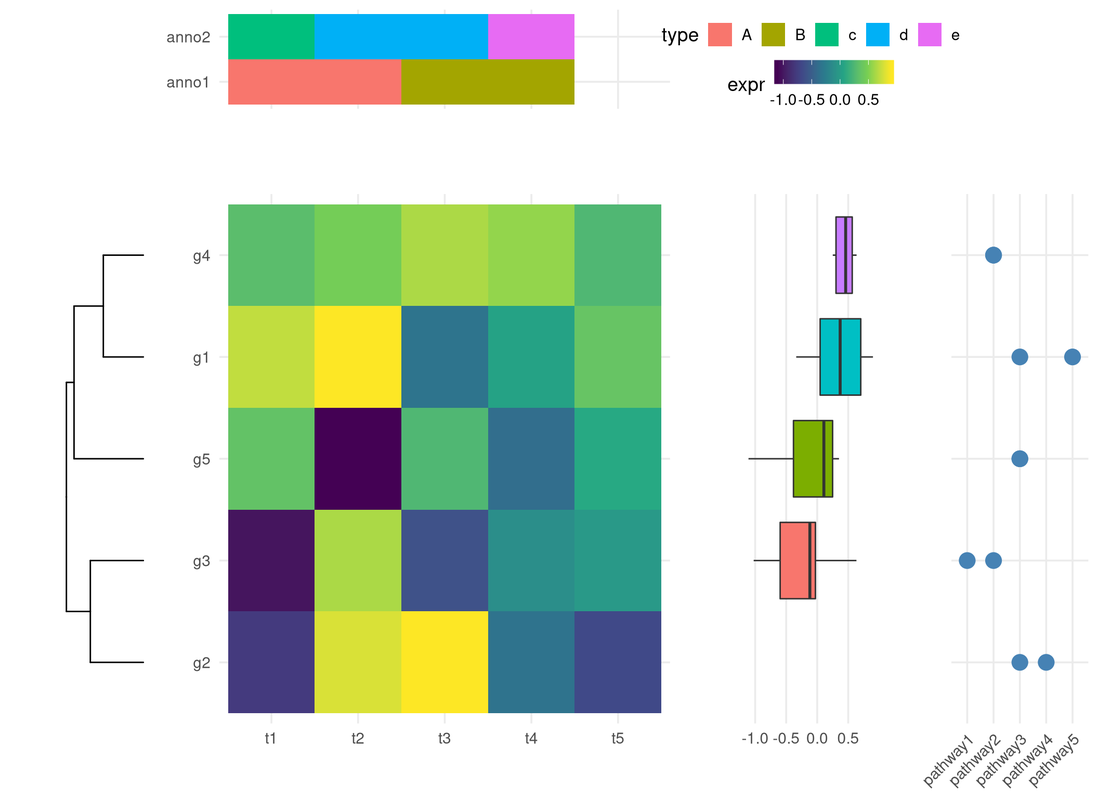
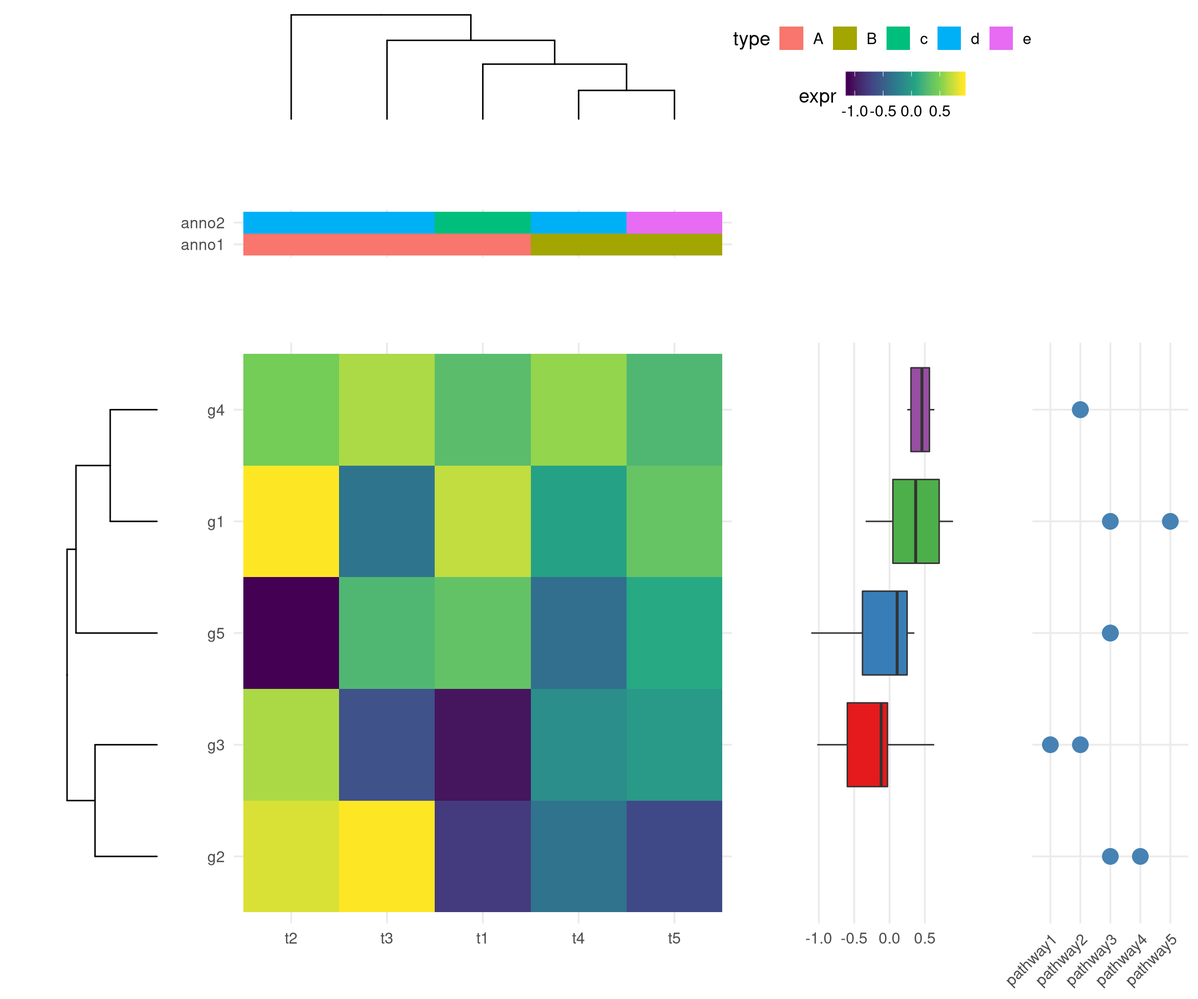
column hc

diff --git a/docs/chapter10.html b/docs/chapter10.html
@@ -581,64 +581,71 @@ Figure 10.6: <strong>Setting axis limits for aligning plots.</strong> Composite 
 <span id="cb236-8"><a href="chapter10.html#cb236-8"></a><span class="kw">rownames</span>(d) &lt;-<span class="st"> </span><span class="kw">paste0</span>(<span class="st">&#39;g&#39;</span>, <span class="dv">1</span><span class="op">:</span><span class="dv">5</span>)</span>
 <span id="cb236-9"><a href="chapter10.html#cb236-9"></a><span class="kw">colnames</span>(d) &lt;-<span class="st"> </span><span class="kw">paste0</span>(<span class="st">&#39;t&#39;</span>, <span class="dv">1</span><span class="op">:</span><span class="dv">5</span>)</span>
 <span id="cb236-10"><a href="chapter10.html#cb236-10"></a>hc &lt;-<span class="st"> </span><span class="kw">hclust</span>(<span class="kw">dist</span>(d))</span>
-<span id="cb236-11"><a href="chapter10.html#cb236-11"></a>ph &lt;-<span class="st"> </span><span class="kw">ggtree</span>(hc)</span>
-<span id="cb236-12"><a href="chapter10.html#cb236-12"></a></span>
-<span id="cb236-13"><a href="chapter10.html#cb236-13"></a>d &lt;-<span class="st"> </span><span class="kw">data.frame</span>(d)</span>
-<span id="cb236-14"><a href="chapter10.html#cb236-14"></a>d<span class="op">$</span>gene &lt;-<span class="st"> </span><span class="kw">rownames</span>(d)</span>
-<span id="cb236-15"><a href="chapter10.html#cb236-15"></a>lv &lt;-<span class="st"> </span>d<span class="op">$</span>gene[hc<span class="op">$</span>order]</span>
-<span id="cb236-16"><a href="chapter10.html#cb236-16"></a>dd &lt;-<span class="st"> </span><span class="kw">gather</span>(d, <span class="dv">1</span><span class="op">:</span><span class="dv">5</span>, <span class="dt">key=</span><span class="st">&quot;condition&quot;</span>, <span class="dt">value=</span><span class="st">&#39;expr&#39;</span>)</span>
-<span id="cb236-17"><a href="chapter10.html#cb236-17"></a>dd<span class="op">$</span>gene &lt;-<span class="st"> </span><span class="kw">factor</span>(dd<span class="op">$</span>gene, <span class="dt">levels=</span>lv)</span>
-<span id="cb236-18"><a href="chapter10.html#cb236-18"></a></span>
-<span id="cb236-19"><a href="chapter10.html#cb236-19"></a>bs &lt;-<span class="st"> </span><span class="dv">14</span></span>
-<span id="cb236-20"><a href="chapter10.html#cb236-20"></a>p &lt;-<span class="st"> </span><span class="kw">ggplot</span>(dd, <span class="kw">aes</span>(condition,gene, <span class="dt">fill=</span>expr)) <span class="op">+</span><span class="st"> </span><span class="kw">geom_tile</span>() <span class="op">+</span><span class="st"> </span></span>
-<span id="cb236-21"><a href="chapter10.html#cb236-21"></a><span class="st">  </span><span class="kw">scale_fill_viridis_c</span>() <span class="op">+</span></span>
-<span id="cb236-22"><a href="chapter10.html#cb236-22"></a><span class="st">  </span><span class="kw">theme_minimal</span>(<span class="dt">base_size=</span>bs) <span class="op">+</span><span class="st"> </span></span>
-<span id="cb236-23"><a href="chapter10.html#cb236-23"></a><span class="st">  </span><span class="kw">theme</span>(<span class="dt">legend.position=</span><span class="st">&#39;none&#39;</span>) <span class="op">+</span><span class="st"> </span></span>
-<span id="cb236-24"><a href="chapter10.html#cb236-24"></a><span class="st">  </span><span class="kw">xlab</span>(<span class="ot">NULL</span>) <span class="op">+</span><span class="st"> </span><span class="kw">ylab</span>(<span class="ot">NULL</span>) </span>
-<span id="cb236-25"><a href="chapter10.html#cb236-25"></a></span>
-<span id="cb236-26"><a href="chapter10.html#cb236-26"></a>g &lt;-<span class="st"> </span><span class="kw">ggplot</span>(dplyr<span class="op">::</span><span class="kw">filter</span>(dd, gene <span class="op">!=</span><span class="st"> &#39;g2&#39;</span>), <span class="kw">aes</span>(gene, expr, <span class="dt">fill=</span>gene)) <span class="op">+</span><span class="st"> </span></span>
-<span id="cb236-27"><a href="chapter10.html#cb236-27"></a><span class="st">  </span><span class="kw">geom_boxplot</span>() <span class="op">+</span><span class="st"> </span><span class="kw">coord_flip</span>() <span class="op">+</span></span>
-<span id="cb236-28"><a href="chapter10.html#cb236-28"></a><span class="st">  </span><span class="kw">theme_minimal</span>(<span class="dt">base_size=</span>bs) <span class="op">+</span><span class="st"> </span></span>
-<span id="cb236-29"><a href="chapter10.html#cb236-29"></a><span class="st">  </span><span class="kw">theme</span>(<span class="dt">legend.position=</span><span class="st">&#39;none&#39;</span>,</span>
-<span id="cb236-30"><a href="chapter10.html#cb236-30"></a>        <span class="dt">axis.text.y =</span> <span class="kw">element_blank</span>(), </span>
-<span id="cb236-31"><a href="chapter10.html#cb236-31"></a>        <span class="dt">axis.ticks.y =</span> <span class="kw">element_blank</span>(),</span>
-<span id="cb236-32"><a href="chapter10.html#cb236-32"></a>        <span class="dt">panel.grid.minor =</span> <span class="kw">element_blank</span>(),</span>
-<span id="cb236-33"><a href="chapter10.html#cb236-33"></a>        <span class="dt">panel.grid.major.y =</span> <span class="kw">element_blank</span>()) <span class="op">+</span></span>
-<span id="cb236-34"><a href="chapter10.html#cb236-34"></a><span class="st">  </span><span class="kw">xlab</span>(<span class="ot">NULL</span>) <span class="op">+</span><span class="st"> </span><span class="kw">ylab</span>(<span class="ot">NULL</span>) </span>
-<span id="cb236-35"><a href="chapter10.html#cb236-35"></a></span>
-<span id="cb236-36"><a href="chapter10.html#cb236-36"></a>ca &lt;-<span class="st"> </span><span class="kw">data.frame</span>(<span class="dt">n =</span> <span class="kw">paste0</span>(<span class="st">&#39;t&#39;</span>, <span class="dv">1</span><span class="op">:</span><span class="dv">4</span>), </span>
-<span id="cb236-37"><a href="chapter10.html#cb236-37"></a>                 <span class="dt">anno1 =</span> <span class="kw">rep</span>(LETTERS[<span class="dv">1</span><span class="op">:</span><span class="dv">2</span>], <span class="dt">times=</span><span class="kw">c</span>(<span class="dv">2</span>, <span class="dv">2</span>)),</span>
-<span id="cb236-38"><a href="chapter10.html#cb236-38"></a>                 <span class="dt">anno2 =</span> <span class="kw">rep</span>(letters[<span class="dv">3</span><span class="op">:</span><span class="dv">5</span>], <span class="dt">times=</span><span class="kw">c</span>(<span class="dv">1</span>, <span class="dv">2</span>, <span class="dv">1</span>))</span>
-<span id="cb236-39"><a href="chapter10.html#cb236-39"></a>)</span>
-<span id="cb236-40"><a href="chapter10.html#cb236-40"></a>cad &lt;-<span class="st"> </span><span class="kw">gather</span>(ca, anno1, anno2, <span class="dt">key=</span><span class="st">&#39;anno&#39;</span>, <span class="dt">value=</span><span class="st">&#39;type&#39;</span>)</span>
-<span id="cb236-41"><a href="chapter10.html#cb236-41"></a></span>
-<span id="cb236-42"><a href="chapter10.html#cb236-42"></a>pc &lt;-<span class="st"> </span><span class="kw">ggplot</span>(cad, <span class="kw">aes</span>(n, <span class="dt">y=</span>anno, <span class="dt">fill=</span>type)) <span class="op">+</span><span class="st"> </span><span class="kw">geom_tile</span>() <span class="op">+</span><span class="st"> </span></span>
-<span id="cb236-43"><a href="chapter10.html#cb236-43"></a><span class="st">  </span><span class="kw">theme_minimal</span>(<span class="dt">base_size=</span>bs) <span class="op">+</span><span class="st"> </span></span>
-<span id="cb236-44"><a href="chapter10.html#cb236-44"></a><span class="st">  </span><span class="kw">theme</span>(<span class="dt">legend.position=</span><span class="st">&#39;none&#39;</span>,</span>
-<span id="cb236-45"><a href="chapter10.html#cb236-45"></a>        <span class="dt">axis.text.x =</span> <span class="kw">element_blank</span>(), </span>
-<span id="cb236-46"><a href="chapter10.html#cb236-46"></a>        <span class="dt">axis.ticks.x =</span> <span class="kw">element_blank</span>()) <span class="op">+</span></span>
-<span id="cb236-47"><a href="chapter10.html#cb236-47"></a><span class="st">  </span><span class="kw">xlab</span>(<span class="ot">NULL</span>) <span class="op">+</span><span class="st"> </span><span class="kw">ylab</span>(<span class="ot">NULL</span>) </span>
-<span id="cb236-48"><a href="chapter10.html#cb236-48"></a></span>
-<span id="cb236-49"><a href="chapter10.html#cb236-49"></a><span class="kw">set.seed</span>(<span class="dv">123</span>)</span>
-<span id="cb236-50"><a href="chapter10.html#cb236-50"></a>dp &lt;-<span class="st"> </span><span class="kw">data.frame</span>(<span class="dt">gene=</span><span class="kw">factor</span>(<span class="kw">rep</span>(<span class="kw">paste0</span>(<span class="st">&#39;g&#39;</span>, <span class="dv">1</span><span class="op">:</span><span class="dv">5</span>), <span class="dv">2</span>), <span class="dt">levels=</span>lv), </span>
-<span id="cb236-51"><a href="chapter10.html#cb236-51"></a>                 <span class="dt">pathway =</span> <span class="kw">sample</span>(<span class="kw">paste0</span>(<span class="st">&#39;pathway&#39;</span>, <span class="dv">1</span><span class="op">:</span><span class="dv">5</span>), <span class="dv">10</span>, <span class="dt">replace =</span> <span class="ot">TRUE</span>))</span>
-<span id="cb236-52"><a href="chapter10.html#cb236-52"></a></span>
-<span id="cb236-53"><a href="chapter10.html#cb236-53"></a>pp &lt;-<span class="st"> </span><span class="kw">ggplot</span>(dp, <span class="kw">aes</span>(pathway, gene)) <span class="op">+</span><span class="st"> </span></span>
-<span id="cb236-54"><a href="chapter10.html#cb236-54"></a><span class="st">    </span><span class="kw">geom_point</span>(<span class="dt">size=</span><span class="dv">5</span>, <span class="dt">color=</span><span class="st">&#39;steelblue&#39;</span>) <span class="op">+</span></span>
-<span id="cb236-55"><a href="chapter10.html#cb236-55"></a><span class="st">    </span><span class="kw">theme_minimal</span>(<span class="dt">base_size=</span>bs) <span class="op">+</span></span>
-<span id="cb236-56"><a href="chapter10.html#cb236-56"></a><span class="st">    </span><span class="kw">theme</span>(<span class="dt">axis.text.x=</span><span class="kw">element_text</span>(<span class="dt">angle=</span><span class="dv">45</span>, <span class="dt">hjust=</span><span class="dv">1</span>),</span>
-<span id="cb236-57"><a href="chapter10.html#cb236-57"></a>          <span class="dt">axis.text.y =</span> <span class="kw">element_blank</span>(), </span>
-<span id="cb236-58"><a href="chapter10.html#cb236-58"></a>          <span class="dt">axis.ticks.y =</span> <span class="kw">element_blank</span>()) <span class="op">+</span></span>
-<span id="cb236-59"><a href="chapter10.html#cb236-59"></a><span class="st">    </span><span class="kw">xlab</span>(<span class="ot">NULL</span>) <span class="op">+</span><span class="st"> </span><span class="kw">ylab</span>(<span class="ot">NULL</span>) </span>
-<span id="cb236-60"><a href="chapter10.html#cb236-60"></a></span>
-<span id="cb236-61"><a href="chapter10.html#cb236-61"></a>legend &lt;-<span class="st"> </span><span class="kw">plot_grid</span>(<span class="kw">get_legend</span>(pc <span class="op">+</span><span class="st"> </span><span class="kw">theme</span>(<span class="dt">legend.position=</span><span class="st">&quot;bottom&quot;</span>)),</span>
-<span id="cb236-62"><a href="chapter10.html#cb236-62"></a>                    <span class="kw">get_legend</span>(p <span class="op">+</span><span class="st"> </span><span class="kw">theme</span>(<span class="dt">legend.position=</span><span class="st">&quot;bottom&quot;</span>)), <span class="dt">ncol=</span><span class="dv">1</span>)</span>
-<span id="cb236-63"><a href="chapter10.html#cb236-63"></a></span>
-<span id="cb236-64"><a href="chapter10.html#cb236-64"></a><span class="kw">plot_grid</span>(<span class="ot">NULL</span>, pc<span class="op">+</span><span class="kw">xlim2</span>(p), legend, <span class="ot">NULL</span>, </span>
-<span id="cb236-65"><a href="chapter10.html#cb236-65"></a>          ph, p, g <span class="op">+</span><span class="st"> </span><span class="kw">ylim2</span>(p), pp <span class="op">+</span><span class="st"> </span><span class="kw">ylim2</span>(p), <span class="dt">ncol=</span><span class="dv">4</span>, </span>
-<span id="cb236-66"><a href="chapter10.html#cb236-66"></a>          <span class="dt">rel_widths=</span><span class="kw">c</span>(.<span class="dv">3</span>, <span class="dv">1</span>, <span class="fl">.4</span>, <span class="fl">.4</span>), <span class="dt">rel_heights=</span><span class="kw">c</span>(.<span class="dv">3</span>, <span class="dv">1</span>), <span class="dt">align=</span><span class="st">&#39;hv&#39;</span>)</span></code></pre></div>
+<span id="cb236-11"><a href="chapter10.html#cb236-11"></a>hcc &lt;-<span class="st"> </span><span class="kw">hclust</span>(<span class="kw">dist</span>(<span class="kw">t</span>(d)))</span>
+<span id="cb236-12"><a href="chapter10.html#cb236-12"></a>phr &lt;-<span class="st"> </span><span class="kw">ggtree</span>(hc)</span>
+<span id="cb236-13"><a href="chapter10.html#cb236-13"></a>phc &lt;-<span class="st"> </span><span class="kw">ggtree</span>(hcc) <span class="op">+</span><span class="st"> </span><span class="kw">layout_dendrogram</span>()</span>
+<span id="cb236-14"><a href="chapter10.html#cb236-14"></a></span>
+<span id="cb236-15"><a href="chapter10.html#cb236-15"></a>d &lt;-<span class="st"> </span><span class="kw">data.frame</span>(d)</span>
+<span id="cb236-16"><a href="chapter10.html#cb236-16"></a>d<span class="op">$</span>gene &lt;-<span class="st"> </span><span class="kw">rownames</span>(d)</span>
+<span id="cb236-17"><a href="chapter10.html#cb236-17"></a>lv &lt;-<span class="st"> </span>d<span class="op">$</span>gene[hc<span class="op">$</span>order]</span>
+<span id="cb236-18"><a href="chapter10.html#cb236-18"></a>lvc &lt;-<span class="st"> </span><span class="kw">colnames</span>(d)[hcc<span class="op">$</span>order]</span>
+<span id="cb236-19"><a href="chapter10.html#cb236-19"></a>dd &lt;-<span class="st"> </span><span class="kw">gather</span>(d, <span class="dv">1</span><span class="op">:</span><span class="dv">5</span>, <span class="dt">key=</span><span class="st">&quot;condition&quot;</span>, <span class="dt">value=</span><span class="st">&#39;expr&#39;</span>)</span>
+<span id="cb236-20"><a href="chapter10.html#cb236-20"></a>dd<span class="op">$</span>gene &lt;-<span class="st"> </span><span class="kw">factor</span>(dd<span class="op">$</span>gene, <span class="dt">levels=</span>lv)</span>
+<span id="cb236-21"><a href="chapter10.html#cb236-21"></a>dd<span class="op">$</span>condition &lt;-<span class="st"> </span><span class="kw">factor</span>(dd<span class="op">$</span>condition, <span class="dt">levels=</span>lvc)</span>
+<span id="cb236-22"><a href="chapter10.html#cb236-22"></a></span>
+<span id="cb236-23"><a href="chapter10.html#cb236-23"></a>bs &lt;-<span class="st"> </span><span class="dv">14</span> </span>
+<span id="cb236-24"><a href="chapter10.html#cb236-24"></a>p &lt;-<span class="st"> </span><span class="kw">ggplot</span>(dd, <span class="kw">aes</span>(condition,gene, <span class="dt">fill=</span>expr)) <span class="op">+</span><span class="st"> </span><span class="kw">geom_tile</span>() <span class="op">+</span><span class="st"> </span></span>
+<span id="cb236-25"><a href="chapter10.html#cb236-25"></a><span class="st">  </span><span class="kw">scale_fill_viridis_c</span>() <span class="op">+</span></span>
+<span id="cb236-26"><a href="chapter10.html#cb236-26"></a><span class="st">  </span><span class="kw">theme_minimal</span>(<span class="dt">base_size=</span>bs) <span class="op">+</span><span class="st"> </span></span>
+<span id="cb236-27"><a href="chapter10.html#cb236-27"></a><span class="st">  </span><span class="kw">theme</span>(<span class="dt">legend.position=</span><span class="st">&#39;none&#39;</span>) <span class="op">+</span><span class="st"> </span></span>
+<span id="cb236-28"><a href="chapter10.html#cb236-28"></a><span class="st">  </span><span class="kw">xlab</span>(<span class="ot">NULL</span>) <span class="op">+</span><span class="st"> </span><span class="kw">ylab</span>(<span class="ot">NULL</span>) </span>
+<span id="cb236-29"><a href="chapter10.html#cb236-29"></a></span>
+<span id="cb236-30"><a href="chapter10.html#cb236-30"></a>g &lt;-<span class="st"> </span><span class="kw">ggplot</span>(dplyr<span class="op">::</span><span class="kw">filter</span>(dd, gene <span class="op">!=</span><span class="st"> &#39;g2&#39;</span>), <span class="kw">aes</span>(gene, expr, <span class="dt">fill=</span>gene)) <span class="op">+</span><span class="st"> </span></span>
+<span id="cb236-31"><a href="chapter10.html#cb236-31"></a><span class="st">  </span><span class="kw">geom_boxplot</span>() <span class="op">+</span><span class="st"> </span><span class="kw">coord_flip</span>() <span class="op">+</span></span>
+<span id="cb236-32"><a href="chapter10.html#cb236-32"></a><span class="st">  </span><span class="kw">scale_fill_brewer</span>(<span class="dt">palette =</span> <span class="st">&#39;Set1&#39;</span>) <span class="op">+</span></span>
+<span id="cb236-33"><a href="chapter10.html#cb236-33"></a><span class="st">  </span><span class="kw">theme_minimal</span>(<span class="dt">base_size=</span>bs) <span class="op">+</span><span class="st"> </span></span>
+<span id="cb236-34"><a href="chapter10.html#cb236-34"></a><span class="st">  </span><span class="kw">theme</span>(<span class="dt">legend.position=</span><span class="st">&#39;none&#39;</span>,</span>
+<span id="cb236-35"><a href="chapter10.html#cb236-35"></a>        <span class="dt">axis.text.y =</span> <span class="kw">element_blank</span>(), </span>
+<span id="cb236-36"><a href="chapter10.html#cb236-36"></a>        <span class="dt">axis.ticks.y =</span> <span class="kw">element_blank</span>(),</span>
+<span id="cb236-37"><a href="chapter10.html#cb236-37"></a>        <span class="dt">panel.grid.minor =</span> <span class="kw">element_blank</span>(),</span>
+<span id="cb236-38"><a href="chapter10.html#cb236-38"></a>        <span class="dt">panel.grid.major.y =</span> <span class="kw">element_blank</span>()) <span class="op">+</span></span>
+<span id="cb236-39"><a href="chapter10.html#cb236-39"></a><span class="st">  </span><span class="kw">xlab</span>(<span class="ot">NULL</span>) <span class="op">+</span><span class="st"> </span><span class="kw">ylab</span>(<span class="ot">NULL</span>) </span>
+<span id="cb236-40"><a href="chapter10.html#cb236-40"></a></span>
+<span id="cb236-41"><a href="chapter10.html#cb236-41"></a>ca &lt;-<span class="st"> </span><span class="kw">data.frame</span>(<span class="dt">n =</span> <span class="kw">paste0</span>(<span class="st">&#39;t&#39;</span>, <span class="dv">1</span><span class="op">:</span><span class="dv">5</span>), </span>
+<span id="cb236-42"><a href="chapter10.html#cb236-42"></a>                 <span class="dt">anno1 =</span> <span class="kw">rep</span>(LETTERS[<span class="dv">1</span><span class="op">:</span><span class="dv">2</span>], <span class="dt">times=</span><span class="kw">c</span>(<span class="dv">3</span>, <span class="dv">2</span>)),</span>
+<span id="cb236-43"><a href="chapter10.html#cb236-43"></a>                 <span class="dt">anno2 =</span> <span class="kw">rep</span>(letters[<span class="dv">3</span><span class="op">:</span><span class="dv">5</span>], <span class="dt">times=</span><span class="kw">c</span>(<span class="dv">1</span>, <span class="dv">3</span>, <span class="dv">1</span>))</span>
+<span id="cb236-44"><a href="chapter10.html#cb236-44"></a>)</span>
+<span id="cb236-45"><a href="chapter10.html#cb236-45"></a>cad &lt;-<span class="st"> </span><span class="kw">gather</span>(ca, anno1, anno2, <span class="dt">key=</span><span class="st">&#39;anno&#39;</span>, <span class="dt">value=</span><span class="st">&#39;type&#39;</span>)</span>
+<span id="cb236-46"><a href="chapter10.html#cb236-46"></a>cad<span class="op">$</span>n &lt;-<span class="st"> </span><span class="kw">factor</span>(cad<span class="op">$</span>n, <span class="dt">levels =</span> lvc)</span>
+<span id="cb236-47"><a href="chapter10.html#cb236-47"></a></span>
+<span id="cb236-48"><a href="chapter10.html#cb236-48"></a>pc &lt;-<span class="st"> </span><span class="kw">ggplot</span>(cad, <span class="kw">aes</span>(n, <span class="dt">y=</span>anno, <span class="dt">fill=</span>type)) <span class="op">+</span><span class="st"> </span><span class="kw">geom_tile</span>() <span class="op">+</span><span class="st"> </span></span>
+<span id="cb236-49"><a href="chapter10.html#cb236-49"></a><span class="st">  </span><span class="kw">theme_minimal</span>(<span class="dt">base_size =</span> bs) <span class="op">+</span><span class="st"> </span></span>
+<span id="cb236-50"><a href="chapter10.html#cb236-50"></a><span class="st">  </span><span class="kw">theme</span>(<span class="dt">legend.position=</span><span class="st">&#39;none&#39;</span>,</span>
+<span id="cb236-51"><a href="chapter10.html#cb236-51"></a>        <span class="dt">axis.text.x =</span> <span class="kw">element_blank</span>(), </span>
+<span id="cb236-52"><a href="chapter10.html#cb236-52"></a>        <span class="dt">axis.ticks.x =</span> <span class="kw">element_blank</span>()) <span class="op">+</span></span>
+<span id="cb236-53"><a href="chapter10.html#cb236-53"></a><span class="st">  </span><span class="kw">xlab</span>(<span class="ot">NULL</span>) <span class="op">+</span><span class="st"> </span><span class="kw">ylab</span>(<span class="ot">NULL</span>) </span>
+<span id="cb236-54"><a href="chapter10.html#cb236-54"></a></span>
+<span id="cb236-55"><a href="chapter10.html#cb236-55"></a><span class="kw">set.seed</span>(<span class="dv">123</span>)</span>
+<span id="cb236-56"><a href="chapter10.html#cb236-56"></a>dp &lt;-<span class="st"> </span><span class="kw">data.frame</span>(<span class="dt">gene=</span><span class="kw">factor</span>(<span class="kw">rep</span>(<span class="kw">paste0</span>(<span class="st">&#39;g&#39;</span>, <span class="dv">1</span><span class="op">:</span><span class="dv">5</span>), <span class="dv">2</span>), <span class="dt">levels=</span>lv), </span>
+<span id="cb236-57"><a href="chapter10.html#cb236-57"></a>                 <span class="dt">pathway =</span> <span class="kw">sample</span>(<span class="kw">paste0</span>(<span class="st">&#39;pathway&#39;</span>, <span class="dv">1</span><span class="op">:</span><span class="dv">5</span>), <span class="dv">10</span>, <span class="dt">replace =</span> <span class="ot">TRUE</span>))</span>
+<span id="cb236-58"><a href="chapter10.html#cb236-58"></a></span>
+<span id="cb236-59"><a href="chapter10.html#cb236-59"></a>pp &lt;-<span class="st"> </span><span class="kw">ggplot</span>(dp, <span class="kw">aes</span>(pathway, gene)) <span class="op">+</span><span class="st"> </span></span>
+<span id="cb236-60"><a href="chapter10.html#cb236-60"></a><span class="st">  </span><span class="kw">geom_point</span>(<span class="dt">size=</span><span class="dv">5</span>, <span class="dt">color=</span><span class="st">&#39;steelblue&#39;</span>) <span class="op">+</span></span>
+<span id="cb236-61"><a href="chapter10.html#cb236-61"></a><span class="st">  </span><span class="kw">theme_minimal</span>(<span class="dt">base_size=</span>bs) <span class="op">+</span></span>
+<span id="cb236-62"><a href="chapter10.html#cb236-62"></a><span class="st">  </span><span class="kw">theme</span>(<span class="dt">axis.text.x=</span><span class="kw">element_text</span>(<span class="dt">angle=</span><span class="dv">45</span>, <span class="dt">hjust=</span><span class="dv">1</span>),</span>
+<span id="cb236-63"><a href="chapter10.html#cb236-63"></a>        <span class="dt">axis.text.y =</span> <span class="kw">element_blank</span>(), </span>
+<span id="cb236-64"><a href="chapter10.html#cb236-64"></a>        <span class="dt">axis.ticks.y =</span> <span class="kw">element_blank</span>()) <span class="op">+</span></span>
+<span id="cb236-65"><a href="chapter10.html#cb236-65"></a><span class="st">  </span><span class="kw">xlab</span>(<span class="ot">NULL</span>) <span class="op">+</span><span class="st"> </span><span class="kw">ylab</span>(<span class="ot">NULL</span>) </span>
+<span id="cb236-66"><a href="chapter10.html#cb236-66"></a></span>
+<span id="cb236-67"><a href="chapter10.html#cb236-67"></a>legend &lt;-<span class="st"> </span><span class="kw">plot_grid</span>(<span class="kw">get_legend</span>(pc <span class="op">+</span><span class="st"> </span><span class="kw">theme</span>(<span class="dt">legend.position=</span><span class="st">&quot;bottom&quot;</span>)),</span>
+<span id="cb236-68"><a href="chapter10.html#cb236-68"></a>                    <span class="kw">get_legend</span>(p <span class="op">+</span><span class="st"> </span><span class="kw">theme</span>(<span class="dt">legend.position=</span><span class="st">&quot;bottom&quot;</span>)), <span class="dt">ncol=</span><span class="dv">1</span>)</span>
+<span id="cb236-69"><a href="chapter10.html#cb236-69"></a></span>
+<span id="cb236-70"><a href="chapter10.html#cb236-70"></a><span class="kw">plot_grid</span>(<span class="ot">NULL</span>, phc <span class="op">+</span><span class="st"> </span><span class="kw">xlim2</span>(p), legend, <span class="ot">NULL</span>,</span>
+<span id="cb236-71"><a href="chapter10.html#cb236-71"></a>          <span class="ot">NULL</span>, pc<span class="op">+</span><span class="kw">xlim2</span>(p), <span class="ot">NULL</span>, <span class="ot">NULL</span>,</span>
+<span id="cb236-72"><a href="chapter10.html#cb236-72"></a>          phr, p, g <span class="op">+</span><span class="st"> </span><span class="kw">ylim2</span>(p), pp <span class="op">+</span><span class="st"> </span><span class="kw">ylim2</span>(p), <span class="dt">ncol=</span><span class="dv">4</span>, </span>
+<span id="cb236-73"><a href="chapter10.html#cb236-73"></a>          <span class="dt">rel_widths=</span><span class="kw">c</span>(.<span class="dv">3</span>, <span class="dv">1</span>, <span class="fl">.4</span>, <span class="fl">.4</span>), <span class="dt">rel_heights=</span><span class="kw">c</span>(.<span class="dv">3</span>,.<span class="dv">2</span>, <span class="dv">1</span>), <span class="dt">align=</span><span class="st">&#39;hv&#39;</span>)</span></code></pre></div>
 <div class="figure"><span id="fig:ggComplexHeatmap"></span>
-<img src="treedata_files/figure-html/ggComplexHeatmap-1.png" alt="Create complex heatmap. With the helps of xlim2() and ylim2(), it is easy to align row or column annotations around a figure (e.g. a heatmap)." width="1056" />
+<img src="treedata_files/figure-html/ggComplexHeatmap-1.png" alt="Create complex heatmap. With the helps of xlim2() and ylim2(), it is easy to align row or column annotations around a figure (e.g. a heatmap)." width="1152" />
 <p class="caption">
 Figure 10.7: <strong>Create complex heatmap.</strong> With the helps of <code>xlim2()</code> and <code>ylim2()</code>, it is easy to align row or column annotations around a figure (e.g. a heatmap).
 </p>

diff --git a/docs/session-info.html b/docs/session-info.html
@@ -349,54 +349,85 @@ code span.wa { color: #60a0b0; font-weight: bold; font-style: italic; } /* Warni
 ##  [6] utils     datasets  methods   base      
 ##   
 ##  other attached packages: 
-##   [1] ggtree_2.1.1         treeio_1.10.0        
-##   [3] tidytree_0.3.0       kableExtra_1.1.0     
-##   [5] dplyr_0.8.3          cowplot_1.0.0        
-##   [7] phylobase_0.8.6      igraph_1.2.4.1       
-##   [9] OutbreakTools_0.1-16 knitr_1.25           
-##  [11] network_1.15         ggplot2_3.2.1        
-##  [13] Biostrings_2.54.0    XVector_0.26.0       
-##  [15] IRanges_2.20.0       S4Vectors_0.24.0     
-##  [17] BiocGenerics_0.32.0  ape_5.3              
-##  [19] conflicted_1.0.4     bookdown_0.14        
+##   [1] devout_0.2.3         phangorn_2.5.5       
+##   [3] data.tree_0.7.8      comicR_0.2           
+##   [5] gridSVG_1.7-1        XML_3.98-1.20        
+##   [7] htmltools_0.4.0      ggrepel_0.8.1        
+##   [9] gggenes_0.4.0        tibble_2.1.3         
+##  [11] reshape2_1.4.3       ggstance_0.3.3       
+##  [13] ggridges_0.5.1       scales_1.0.0         
+##  [15] phyloseq_1.29.0      ade4_1.7-13          
+##  [17] emojifont_0.5.2      ggnewscale_0.4.0     
+##  [19] ggimage_0.2.4        jsonlite_1.6         
+##  [21] stringr_1.4.0        phytools_0.6-99      
+##  [23] maps_3.3.0           tidyr_1.0.0          
+##  [25] ggtree_2.1.1         treeio_1.10.0        
+##  [27] tidytree_0.3.0       kableExtra_1.1.0     
+##  [29] dplyr_0.8.3          cowplot_1.0.0        
+##  [31] phylobase_0.8.6      igraph_1.2.4.1       
+##  [33] OutbreakTools_0.1-16 knitr_1.25           
+##  [35] network_1.15         ggplot2_3.2.1        
+##  [37] Biostrings_2.54.0    XVector_0.26.0       
+##  [39] IRanges_2.20.0       S4Vectors_0.24.0     
+##  [41] BiocGenerics_0.32.0  ape_5.3              
+##  [43] conflicted_1.0.4     bookdown_0.14        
 ##   
 ##  loaded via a namespace (and not attached): 
-##   [1] httr_1.4.1            tidyr_1.0.0           
-##   [3] jsonlite_1.6          viridisLite_0.3.0     
-##   [5] assertthat_0.2.1      BiocManager_1.30.9    
-##   [7] rvcheck_0.1.6         yaml_2.2.0            
-##   [9] progress_1.2.2        pillar_1.4.2          
-##  [11] backports_1.1.5       lattice_0.20-38       
-##  [13] glue_1.3.1            uuid_0.1-2            
-##  [15] digest_0.6.22         RColorBrewer_1.1-2    
-##  [17] rvest_0.3.4           colorspace_1.4-1      
-##  [19] htmltools_0.4.0       plyr_1.8.4            
-##  [21] XML_3.98-1.20         pkgconfig_2.0.3       
-##  [23] rncl_0.8.3            zlibbioc_1.32.0       
-##  [25] purrr_0.3.3           webshot_0.5.1         
-##  [27] scales_1.0.0          sna_2.4               
-##  [29] jpeg_0.1-8.1          ggmap_3.0.0           
-##  [31] tibble_2.1.3          withr_2.1.2           
-##  [33] lazyeval_0.2.2        networkDynamic_0.10.0 
-##  [35] magrittr_1.5          crayon_1.3.4          
-##  [37] statnet.common_4.3.0  memoise_1.1.0         
-##  [39] evaluate_0.14         nlme_3.1-140          
-##  [41] MASS_7.3-51.4         xml2_1.2.2            
-##  [43] tools_3.6.1           prettyunits_1.0.2     
-##  [45] hms_0.5.2             RgoogleMaps_1.4.4     
-##  [47] lifecycle_0.1.0       stringr_1.4.0         
-##  [49] munsell_0.5.0         ade4_1.7-13           
-##  [51] compiler_3.6.1        RNeXML_2.3.0          
-##  [53] rlang_0.4.1           grid_3.6.1            
-##  [55] RCurl_1.95-4.12       rstudioapi_0.10       
-##  [57] rjson_0.2.20          bitops_1.0-6          
-##  [59] rmarkdown_1.16        gtable_0.3.0          
-##  [61] reshape2_1.4.3        R6_2.4.0              
-##  [63] zeallot_0.1.0         readr_1.3.1           
-##  [65] stringi_1.4.3         Rcpp_1.0.2            
-##  [67] vctrs_0.2.0           png_0.1-7             
-##  [69] tidyselect_0.2.5      xfun_0.10             
-##  [71] coda_0.19-3</code></pre>
+##    [1] uuid_0.1-2              backports_1.1.5         
+##    [3] fastmatch_1.1-0         plyr_1.8.4              
+##    [5] lazyeval_0.2.2          splines_3.6.1           
+##    [7] rncl_0.8.3              digest_0.6.22           
+##    [9] foreach_1.4.7           viridis_0.5.1           
+##   [11] magick_2.2              magrittr_1.5            
+##   [13] memoise_1.1.0           cluster_2.1.0           
+##   [15] sna_2.4                 readr_1.3.1             
+##   [17] ggfittext_0.8.1         sysfonts_0.8            
+##   [19] prettyunits_1.0.2       jpeg_0.1-8.1            
+##   [21] colorspace_1.4-1        rvest_0.3.4             
+##   [23] xfun_0.10               crayon_1.3.4            
+##   [25] RCurl_1.95-4.12         zeallot_0.1.0           
+##   [27] brew_1.0-6              survival_2.44-1.1       
+##   [29] iterators_1.0.12        glue_1.3.1              
+##   [31] gtable_0.3.0            zlibbioc_1.32.0         
+##   [33] webshot_0.5.1           Rook_1.1-1              
+##   [35] Rhdf5lib_1.7.6          Rcpp_1.0.2              
+##   [37] showtextdb_2.0          plotrix_3.7-6           
+##   [39] viridisLite_0.3.0       progress_1.2.2          
+##   [41] gridGraphics_0.4-1      animation_2.6           
+##   [43] htmlwidgets_1.5.1       httr_1.4.1              
+##   [45] DiagrammeR_1.0.1        RColorBrewer_1.1-2      
+##   [47] ellipsis_0.3.0          pkgconfig_2.0.3         
+##   [49] labeling_0.3            ggplotify_0.0.4         
+##   [51] tidyselect_0.2.5        rlang_0.4.1             
+##   [53] visNetwork_2.0.8        munsell_0.5.0           
+##   [55] tools_3.6.1             downloader_0.4          
+##   [57] statnet.common_4.3.0    ggmap_3.0.0             
+##   [59] evaluate_0.14           biomformat_1.14.0       
+##   [61] yaml_2.2.0              purrr_0.3.3             
+##   [63] RgoogleMaps_1.4.4       showtext_0.7            
+##   [65] nlme_3.1-140            xml2_1.2.2              
+##   [67] networkDynamic_0.10.0   compiler_3.6.1          
+##   [69] rstudioapi_0.10         rgexf_0.15.3            
+##   [71] png_0.1-7               clusterGeneration_1.3.4 
+##   [73] RNeXML_2.3.0            stringi_1.4.3           
+##   [75] highr_0.8               lattice_0.20-38         
+##   [77] Matrix_1.2-17           vegan_2.5-6             
+##   [79] permute_0.9-5           multtest_2.42.0         
+##   [81] vctrs_0.2.0             pillar_1.4.2            
+##   [83] lifecycle_0.1.0         BiocManager_1.30.9      
+##   [85] combinat_0.0-8          data.table_1.12.6       
+##   [87] bitops_1.0-6            R6_2.4.0                
+##   [89] gridExtra_2.3           codetools_0.2-16        
+##   [91] MASS_7.3-51.4           gtools_3.8.1            
+##   [93] assertthat_0.2.1        rhdf5_2.30.0            
+##   [95] proto_1.0.0             rjson_0.2.20            
+##   [97] withr_2.1.2             mnormt_1.5-5            
+##   [99] mgcv_1.8-28             expm_0.999-4            
+##  [101] hms_0.5.2               influenceR_0.1.0        
+##  [103] quadprog_1.5-7          grid_3.6.1              
+##  [105] coda_0.19-3             rmarkdown_1.16          
+##  [107] rvcheck_0.1.6           numDeriv_2016.8-1.1     
+##  [109] scatterplot3d_0.3-41    Biobase_2.46.0</code></pre>
 
 </div>
             </section>
